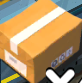
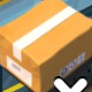
updates IOS

diff --git a/automator.py b/automator.py
@@ -5,14 +5,16 @@ from devices import *
 from constant import *
 import uiautomator2 as u2
 import wda
-import cv2 
+import numpy as np
+import cv2
 import threading
 import random
+from target import *
 
 
 class Automator:
     def __init__(self, d: Devices, BUILDING = None):
-        self._DEBUG = True
+        self._DEBUG = False
 
 
         print("-"*20 + "Automator Init" + "-"*20)
@@ -84,7 +86,7 @@ class Automator:
         #UIMatcher.saveScreen(self._Sshot())
     
         # Test crop the goods
-        self._Test()
+        # self._Test()
 
         while not self._DEBUG:
             if n2%n == 0:
@@ -111,7 +113,7 @@ class Automator:
             
             # 简单粗暴的方式，处理 “XX之光” 的荣誉显示。
             # 不管它出不出现，每次都点一下 确定 所在的位置
-            self.d.click(0.9, 0.99)
+            #self.d.click(0.8, 0.90)
             
 
             n2 += 1
@@ -123,12 +125,24 @@ class Automator:
     def _Test(self):
         for good in self.harvest_filter:
             img = UIMatcher.getLittleSquare(self._Sshot(),self._pos_good[good])
-            #UIMatcher.saveScreen(img,good)
+            UIMatcher.saveScreen(img,good)
             #imageB = cv2.imread("test2.png")
             #UIMatcher.compare(img,imageB)
 
     def _Move_good_IOS(self):
-        pass
+        goods = self._bd["gds"]
+        for good in self.harvest_filter:
+            img = UIMatcher.getLittleSquare(self._Sshot(),self._pos_good[good])
+            UIMatcher.saveScreen(img,good)
+            for target in goods.keys():
+                imageB = cv2.imread(target.value,1)
+                if UIMatcher.compare(img,imageB,0.5):
+                    msg(str(target) + " move to " + str(goods[target]))
+                    position = self.pos[goods[target]]
+                    #Pout(sx,sy,ex,ey)
+                    self._move_good_by_id(good, position, times = 4)
+                    #self._drag(sx, sy, ex , ey,0.5)
+                    break
 
     '''
     IOS has the different version of harvest
@@ -137,8 +151,7 @@ class Automator:
         if self._has_train() and not NomoreTrain:
             msg("Found train - harvest")
             if self._IOS:
-                for target in self._bd["gds"].keys():
-                    self._match_target(target)
+                self._Move_good_IOS()
             else:
                 self._Move_good_Android()
             self._count["harvest"] += 1

diff --git a/cv.py b/cv.py
@@ -3,9 +3,9 @@ from util import *
 from Orc import *
 from PIL import Image
 from aip import AipOcr
-from skimage.measure import compare_ssim
 import pytesseract
-import os
+import os,skimage
+from skimage.metrics import structural_similarity as ssim
 
 WIN10 = True
 tessdata_dir_config = '--tessdata-dir "C:\\Program Files (x86)\\Tesseract-OCR\\tessdata"'
@@ -132,18 +132,18 @@ class UIMatcher:
     '''
 
     @staticmethod
-    def getLittleSquare(img, rel_pos, edge=0.01):
+    def getLittleSquare(img, rel_pos, edge=46):
         '''
         截取rel_pos附近一个小方块
         '''
         rx,ry = rel_pos
         h=len(img)
         w=len(img[0])
-        scale = h/w
-        x0 = int((rx-edge*scale)*w)
-        x1 = int((rx+edge*scale)*w)
-        y0 = int((ry-edge)*h)
-        y1 = int((ry+edge)*h)
+        
+        x0 = int(rx*w - edge)
+        x1 = int(rx*w + edge)
+        y0 = int(ry*h - edge)
+        y1 = int(ry*h + edge)
         return img[y0:y1,x0:x1]
 
 
@@ -222,14 +222,17 @@ class UIMatcher:
         cv2.imwrite('s.png', screen)
 
     @staticmethod
-    def compare(imageA,imageB):
+    def compare(imageA,imageB, criteria = 0.8):
         grayA = cv2.cvtColor(imageA, cv2.COLOR_BGR2GRAY)
         grayB = cv2.cvtColor(imageB, cv2.COLOR_BGR2GRAY)
         # compute the Structural Similarity Index (SSIM) between the two
         # images, ensuring that the difference image is returned
-        (score, diff) = compare_ssim(grayA, grayB, full=True)
+        (score, diff) = ssim(grayA, grayB, full=True)
         diff = (diff * 255).astype("uint8")
-        print("SSIM: {}".format(score))
+        if score > criteria:
+            msg("SSIM: {}".format(score))
+            return True
+        return False
 
     @staticmethod
     def read(path):
@@ -241,7 +244,7 @@ class UIMatcher:
         # 获取对应货物的图片。
         # 有个要点：通过截屏制作货物图片时，请在快照为实际大小的模式下截屏。
         template = cv2.imread(target.value)
-        # 获取货物图片的宽高。    
+        # 获取货物图片的宽高。
         th, tw = template.shape[:2]
         # 调用 OpenCV 模板匹配。
         res = cv2.matchTemplate(screen, template, cv2.TM_SQDIFF_NORMED)

diff --git a/target.py b/target.py
@@ -4,11 +4,11 @@ from enum import Enum
 货物枚举类型。通过截屏制作货物图片时，请确保截屏符合实际大小。
 """
 class TargetType(Enum):
-    Chair = 'targets/Chair.jpg'
-    Vegetable = 'targets/Vegetable.jpg'
-    Bottle = 'targets/beer.png'
+    Chair = 'targets/Chair.png'
+    Vegetable = 'targets/Vegetable.png'
+    Bottle = 'targets/bottle.png'
     Wood = 'targets/Wood.png'
-    Food = 'targets/Food.jpg'
+    Food = 'targets/Food.png'
     Box = 'targets/Box.jpg'
     Sofa = 'targets/Sofa.png'
     Grass = 'targets/Grass8.png'
@@ -23,5 +23,5 @@ class TargetType(Enum):
     烧鸡 = 'targets/roastChicken.png'
     话筒 = 'targets/microphone.png'
     时尚吊灯 = 'targets/lamp.png'
-    Cloth = 'targets/lamp.png'
-    cotton = 'targets/lamp.png'
+    Cloth = 'targets/cloth.png'
+    cotton = 'targets/cotton.png'

diff --git a/main.py b/main.py
@@ -12,6 +12,7 @@ def START(instance):
 if __name__ == '__main__':
     config = load_configure("config.json")
     
+    '''
     building = {
         1 : "空中别墅" ,
         2 : "人オ公寓" ,
@@ -22,6 +23,18 @@ if __name__ == '__main__':
         7 : "食品厂"   ,
         8 : "造纸厂"   ,
         9 : "钢铁厂"
+    }
+    '''
+    building = {
+        1 : "人オ公寓" ,
+        2 : "居民楼" ,
+        3 : "钢结构房" ,
+        4 : "服装店"     ,
+        5 : "便利店"   ,
+        6 : "菜市场"   ,
+        7 : "纺织厂"   ,
+        8 : "钢铁厂"   ,
+        9 : "食品厂"
     }
 
     if MUMU and b'connected' in subprocess.check_output('adb connect '+ d.MuMu()):

diff --git a/devices.py b/devices.py
@@ -186,9 +186,9 @@ def Assign_Position(Ss):
 		9: (927/1242, 537/2208)
 		}
 		GOODS = {
-		1: (0.609,0.854),
-        2: (0.758,0.815),
-        3: (0.896,0.766)
+		1: (760/1242,1888/2208),
+        2: (940/1242,1793/2208),
+        3: (1117/1242,1698/2208)
 		}
 		FEATURES = {
 		"P_NoMoreTrain":(0,0),

diff --git a/README.md b/README.md
@@ -7,7 +7,7 @@
 - [x] 改写收取金币 (Android)
 - [x] 适配收取金币 (IOS)
 - [x] 改写安卓移动物品
-- [ ] IOS根据对比物品来判断位置
+- [x] IOS根据对比物品来判断位置
 
 ## 功能
 - [x] Print out Information Every n times
@@ -18,7 +18,7 @@
 
 ### IOS
 - [x] 自动收金币
-- [ ] 自动收货
+- [x] 自动收货
 
 
 ## 安装与运行
